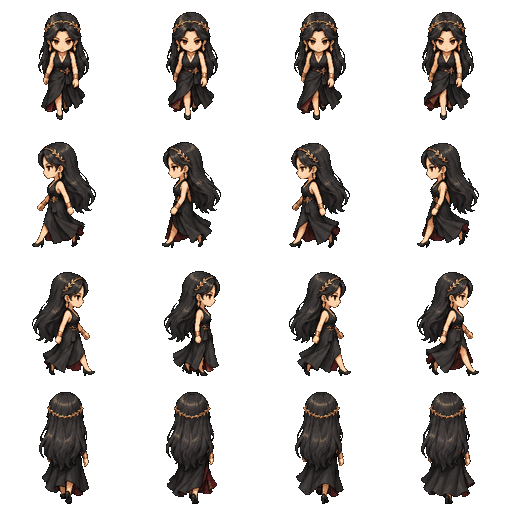
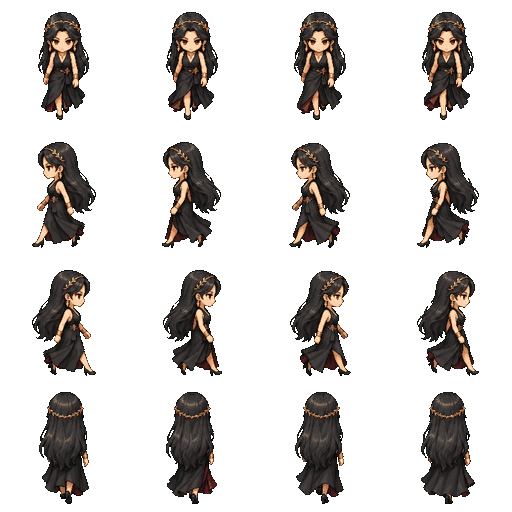
Fix noir_orchid left/right direction bug and drop hi-res base-character picker
noir_orchid direction bug: the earlier fix (SWAP_LR_ROWS) misdiagnosed the
issue as a swapped row pair. Re-verified via tight zoomed crops + exact
pixel-diff on the raw source (not visible on the full-body silhouette,
which looks deceptively similar either way): "left" and "right" both show
the identical pose, not mirrored content. All three noir_orchid variants
(v1/v2/v3) have this bug. Fixed by mirror-synthesis instead of row-swap —
verified mathematically (right row is now an exact pixel mirror of left,
0.0 diff) in both the outfit system (build_outfits.py) and the character
system (new MIRROR_RIGHT_FROM_LEFT_IDS in build_character_manifest.py,
applied as a post-copy pixel rearrangement, no new art drawn).

Character-creation picker: removed the hi-res "ตัวละคร" selection UI
entirely, both at character creation and the in-game mid-session switcher
added in the previous commit — the only base body is the original legacy
avatar again. All 38 imported high-res characters remain fully accessible,
just exclusively as an outfit (👕 menu) rather than a selectable base
sprite. Removed the now-dead mid-session spriteId sync plumbing (net.js,
net_firebase.js sender, server.py) that only existed to support the
removed switcher.

diff --git a/game/js/outfit_menu.js b/game/js/outfit_menu.js
@@ -2,12 +2,13 @@
 // เปลี่ยนแล้ว sync ไปให้คนอื่นเห็นทันทีผ่าน world.net (เหมือน setPet) และจำไว้ใน homes/<uid>
 // ใช้ DOM id เดิมจากระบบเครื่องแต่งกายแบบชิ้น ๆ รุ่นก่อน (#cosmetics-btn/#cosmetics-overlay ฯลฯ)
 // เพราะ CSS ตำแหน่ง/ขนาดปุ่มถูกต้องอยู่แล้ว เปลี่ยนแค่เนื้อหาเมนูข้างใน
+//
+// ตัวเลือก "ตัวละครฐาน" (สไปรท์ความละเอียดสูง) ไม่ได้อยู่ในเมนูนี้ — เลือกได้แค่ตอนสร้างตัวละคร
+// (หน้าแรก) เท่านั้น ตัวละครความละเอียดสูงตัวอื่นทั้งหมดเข้าถึงผ่าน "ชุด" ด้านล่างนี้เพียงทางเดียว
 
 import { OUTFITS, OUTFIT_SRC_W, OUTFIT_SRC_H, OUTFIT_FRAME_W, OUTFIT_FRAME_H } from "./outfit_data.js";
 import { outfitImageEl } from "./outfit.js";
 import { saveHome } from "./decor.js";
-import { SPRITE_MANIFEST, getSpriteDef } from "./sprites_manifest.js";
-import { preloadSprite, drawSpritePreview } from "./sprites.js";
 
 export function initOutfitMenu(world, ui) {
   document.getElementById("cosmetics-btn").addEventListener("click", () => toggleOutfitMenu(world, true));
@@ -32,27 +33,6 @@ function equip(world, outfitId) {
   render(world);
 }
 
-// เปลี่ยน "ตัวละครฐาน" (สไปรท์ความละเอียดสูง) กลางเซสชัน — คนละระบบกับ outfit (outfit ใส่ทับ
-// avatar ทีหลังได้เสมอ ส่วนอันนี้คือ avatar/สไปรท์ตัวเองเลย) แต่ใช้เมนูเดียวกันเพื่อไม่ต้องเพิ่ม
-// ปุ่ม/overlay ใหม่ — sync ออกไปให้ remote client อื่นเห็นทันทีผ่าน net.updateSpriteId (เหมือน
-// updateOutfit/updatePet) ตั้ง/ล้าง collisionW/H จาก manifest เสมอ ไม่งั้น hitbox จะค้างค่าตัวเก่า
-function equipSprite(world, spriteId) {
-  world.player.spriteId = spriteId;
-  if (spriteId) {
-    preloadSprite(spriteId);
-    const def = getSpriteDef(spriteId);
-    if (def) { world.player.collisionW = def.collisionWidth; world.player.collisionH = def.collisionHeight; }
-  } else {
-    delete world.player.collisionW;
-    delete world.player.collisionH;
-  }
-  const saved = JSON.parse(localStorage.getItem("dataxtown.avatar") || "null") || {};
-  saved.spriteId = spriteId;
-  localStorage.setItem("dataxtown.avatar", JSON.stringify(saved));
-  if (world.net && world.net.updateSpriteId) world.net.updateSpriteId(spriteId);
-  render(world);
-}
-
 function outfitThumb(id) {
   const c = document.createElement("canvas");
   c.width = OUTFIT_FRAME_W; c.height = OUTFIT_FRAME_H;
@@ -60,7 +40,7 @@ function outfitThumb(id) {
   cx.imageSmoothingEnabled = false;
   const img = outfitImageEl();
   const row = OUTFITS.findIndex(o => o.id === id);
-  // ครอปจาก sheet ต้นฉบับความละเอียดสูง (เหมือน outfit.js) ไม่ใช่ FRAME_W/H เดิม — พรีวิวจะคมกว่า
+  // ครอปจาก sheet ต้นฉบับความละเอียดสูง (SRC_W/H) ไม่ใช่ FRAME_W/H ที่วาดจริง — พรีวิวจะคมกว่า
   const draw = () => cx.drawImage(img, 0, row * OUTFIT_SRC_H, OUTFIT_SRC_W, OUTFIT_SRC_H, 0, 0, OUTFIT_FRAME_W, OUTFIT_FRAME_H);
   if (img && img.complete) draw(); else if (img) img.addEventListener("load", draw, { once: true });
   return c;
@@ -98,64 +78,4 @@ function render(world) {
   }
   outfitSection.appendChild(outfitGrid);
   root.appendChild(outfitSection);
-
-  // ---------- ตัวละครฐาน (สไปรท์ความละเอียดสูง) ----------
-  const spriteSection = document.createElement("div");
-  spriteSection.className = "cosmetics-section";
-  const spriteLabel = document.createElement("div");
-  spriteLabel.className = "cosmetics-slot-label";
-  spriteLabel.textContent = "ตัวละคร";
-  spriteSection.appendChild(spriteLabel);
-
-  const spriteGrid = document.createElement("div");
-  spriteGrid.className = "cosmetics-grid";
-  const currentSprite = world.player.spriteId || null;
-  const noneSprite = document.createElement("div");
-  noneSprite.className = "cosmetics-opt" + (!currentSprite ? " selected" : "");
-  noneSprite.innerHTML = '<span class="cosmetics-emoji">🙂</span><span>ตัวละครพื้นฐาน</span>';
-  noneSprite.addEventListener("click", () => equipSprite(world, null));
-  spriteGrid.appendChild(noneSprite);
-
-  for (const def of SPRITE_MANIFEST) {
-    const opt = document.createElement("div");
-    opt.className = "cosmetics-opt" + (currentSprite === def.id ? " selected" : "");
-    opt.dataset.sprite = def.id;
-    const c = document.createElement("canvas");
-    c.className = "hires-thumb";
-    c.width = 48; c.height = 48;
-    opt.appendChild(c);
-    const name = document.createElement("span");
-    name.textContent = def.name;
-    opt.appendChild(name);
-    opt.addEventListener("click", () => {
-      loadSpriteThumb(c, def.id); // เผื่อคลิกก่อน observer ทันเวลา
-      equipSprite(world, def.id);
-    });
-    spriteGrid.appendChild(opt);
-  }
-  spriteSection.appendChild(spriteGrid);
-  root.appendChild(spriteSection);
-
-  // lazy-load พรีวิวเฉพาะการ์ดที่เลื่อนมาใกล้จะเห็น — ไม่โหลดสไปรท์ทั้ง 38+ ตัวพร้อมกันทุกครั้งที่
-  // เปิดเมนู (preloadSprite เองก็ cache ต่อ id อยู่แล้ว แต่รอบแรกที่เปิดเมนูไม่ควรยิง fetch รวดเดียว)
-  const card = document.getElementById("cosmetics-card");
-  const observer = new IntersectionObserver(entries => {
-    for (const e of entries) {
-      if (!e.isIntersecting) continue;
-      const canvas = e.target.querySelector("canvas.hires-thumb");
-      if (canvas) loadSpriteThumb(canvas, e.target.dataset.sprite);
-      observer.unobserve(e.target);
-    }
-  }, { root: card, rootMargin: "150px 0px" });
-  spriteGrid.querySelectorAll(".cosmetics-opt[data-sprite]").forEach(opt => observer.observe(opt));
-  if (currentSprite) {
-    const sel = spriteGrid.querySelector(`.cosmetics-opt[data-sprite="${currentSprite}"] canvas.hires-thumb`);
-    if (sel) loadSpriteThumb(sel, currentSprite);
-  }
-}
-
-function loadSpriteThumb(canvas, id) {
-  if (canvas.dataset.loaded) return;
-  canvas.dataset.loaded = "1";
-  preloadSprite(id).then(() => drawSpritePreview(canvas.getContext("2d"), canvas, id, "down"));
 }

diff --git a/game/css/style.css b/game/css/style.css
@@ -625,21 +625,6 @@ body.touch #controls-hint { display: none; }
   border: 2px solid #394158; border-radius: 8px;
 }
 #gender-picker button.selected { border-color: #e7b94f; background: #26324a; }
-#hires-picker {
-  display: grid; grid-template-columns: repeat(3, 1fr);
-  gap: 6px; max-height: 240px; overflow-y: auto; overflow-x: hidden;
-  padding-right: 2px; margin-bottom: 4px;
-}
-.hires-opt {
-  display: flex; flex-direction: column; align-items: center; gap: 3px;
-  min-width: 0; padding: 6px 3px; cursor: pointer;
-  background: #171b2c; border: 2px dashed #394158; border-radius: 8px;
-}
-.hires-opt canvas.hires-thumb { image-rendering: pixelated; background: #0e1120; border-radius: 4px; }
-.hires-opt span { font-size: 9px; opacity: .85; text-align: center; line-height: 1.2; word-break: break-word; }
-.hires-opt.selected { border-color: #e7b94f; border-style: solid; background: #26324a; }
-.hires-opt.none-opt { justify-content: center; }
-.hires-opt.none-opt .hires-emoji { font-size: 20px; opacity: .6; }
 #custom-cols.hidden { display: none; }
 #avatar-picker { display: flex; gap: 8px; flex-wrap: wrap; }
 #avatar-picker canvas {
@@ -755,7 +740,6 @@ body.touch #controls-hint { display: none; }
 .cosmetics-opt span { font-size: 9px; opacity: .8; text-align: center; line-height: 1.2; }
 .cosmetics-opt.selected { border-color: #e7b94f; background: #26324a; }
 .cosmetics-opt .cosmetics-emoji { font-size: 20px; opacity: .5; height: 50px; display: flex; align-items: center; }
-.cosmetics-opt canvas.hires-thumb { width: 48px; height: 48px; background: #0e1120; border-radius: 4px; }
 #cosmetics-close {
   margin-top: 8px; width: 100%; padding: 10px;
   font-size: 14px; font-weight: 700; cursor: pointer;

diff --git a/game/js/net.js b/game/js/net.js
@@ -35,9 +35,6 @@ export function connectNet(world, ui) {
     });
     addSystemLine(ui, "🟢 ออนไลน์แล้ว — คนอื่นในออฟฟิศจะเห็นคุณ");
     net.updatePet = (petId, petName) => send({ t: "pet", petId, petName });
-    // เปลี่ยนตัวละครฐาน (สไปรท์ความละเอียดสูง) กลางเซสชัน — ส่งแค่ id อ้างอิง manifest เหมือนตอน
-    // join ครั้งแรก ไม่ส่งรูปภาพ/base64 ผ่าน network เด็ดขาด
-    net.updateSpriteId = spriteId => send({ t: "sprite", spriteId: spriteId || null });
 
     // ส่งตำแหน่งเมื่อมีการเปลี่ยนแปลง (จังหวะ 10 ครั้ง/วินาที)
     let last = "";
@@ -94,15 +91,6 @@ export function connectNet(world, ui) {
       case "pet": {
         const ent = findRemote(world, data.id);
         if (ent) setPet(ent, data.petId, data.petName);
-        break;
-      }
-      case "sprite": {
-        // id ไม่รู้จัก/โหลดพัง drawHiresCharacter() fallback ไปวาด avatar เดิมเองอัตโนมัติ (ไม่ crash)
-        const ent = findRemote(world, data.id);
-        if (ent) {
-          ent.spriteId = data.spriteId || null;
-          if (ent.spriteId) preloadSprite(ent.spriteId);
-        }
         break;
       }
       case "chat": {

diff --git a/game/js/net_firebase.js b/game/js/net_firebase.js
@@ -71,10 +71,6 @@ export async function connectFirebase(world, ui) {
     net.updatePet = (petId, petName) =>
       update(meRef, { pet: petId || null, petName: petName || null }).catch(() => {});
     net.updateOutfit = outfit => update(meRef, { outfit: outfit || null }).catch(() => {});
-    // เปลี่ยนตัวละครฐาน (สไปรท์ความละเอียดสูง) กลางเซสชัน — ส่งแค่ id อ้างอิง manifest เหมือน
-    // ตอน join ครั้งแรก ไม่ส่งรูปภาพ/base64 ผ่าน Firebase เด็ดขาด ฝั่งรับ sync ผ่าน onChildChanged
-    // ที่มีอยู่แล้วด้านล่าง (เช็ค v.spriteId !== ent.spriteId)
-    net.updateSpriteId = spriteId => update(meRef, { spriteId: spriteId || null }).catch(() => {});
     addSystemLine(ui, "🟢 ออนไลน์ผ่าน Firebase — คนอื่นในออฟฟิศจะเห็นคุณ");
 
     // ---------- สถานะการเชื่อมต่อของตัวเอง ----------

diff --git a/game/index.html b/game/index.html
@@ -220,8 +220,6 @@
         <button type="button" data-gender="0">👨 ชาย</button>
         <button type="button" data-gender="1">👩 หญิง</button>
       </div>
-      <label>เลือกตัวละคร</label>
-      <div id="hires-picker"></div>
       <div id="custom-row">
         <div id="custom-cols">
           <label>สีผม</label>

diff --git a/scripts/build_character_manifest.py b/scripts/build_character_manifest.py
@@ -80,6 +80,15 @@ PET_FOLDER_NAMES = {
 # logical entity position. id -> {visualScale?, visualOffsetX?, visualOffsetY?, tagOffsetY?}
 VISUAL_OVERRIDES = {}
 
+# Ids whose raw source sheet has a genuine content bug: the "left" and "right" rows show the
+# identical pose instead of two mirrored poses (verified via a tight zoomed crop on the face/
+# hair region + exact pixel-diff — NOT visible at a glance on the full-body silhouette, which
+# looks deceptively similar either way). For these, synthesize "right" by horizontally
+# mirroring "left" post-copy instead of trusting the source "right" row at all — this
+# rearranges existing pixels only (no new art drawn) and matches the same fix applied to the
+# outfit system's MIRROR_RIGHT_FROM_LEFT in build_outfits.py.
+MIRROR_RIGHT_FROM_LEFT_IDS = {"noir_orchid", "noir_orchid_v2", "noir_orchid_v3"}
+
 NAME_OVERRIDES = {
     "crimson_aegis_knight": "อัศวินโล่เพลิง",
     "dragon_elf_sentinel": "เอลฟ์มังกรผู้พิทักษ์",
@@ -202,6 +211,24 @@ def find_sibling_json(png_path: Path) -> Path:
     return exact  # let validate() report the "missing" reason with the expected name
 
 
+def fix_mirrored_right(dest_png: Path, meta: dict):
+    """Overwrite the 'right' row in-place with a per-frame horizontal mirror of the 'left'
+    row. Used for MIRROR_RIGHT_FROM_LEFT_IDS whose source 'right' row is a duplicate of
+    'left' instead of a genuine mirror (see comment at MIRROR_RIGHT_FROM_LEFT_IDS). Mirrors
+    each frame column individually (not the whole strip) so walk-cycle frame order along the
+    row is preserved."""
+    directions = meta["directions"]
+    fw, fh = meta["frameWidth"], meta["frameHeight"]
+    frames_per_dir = meta["framesPerDirection"]
+    left_row = directions.index("left")
+    right_row = directions.index("right")
+    img = Image.open(dest_png).convert("RGBA")
+    for col in range(frames_per_dir):
+        frame = img.crop((col * fw, left_row * fh, (col + 1) * fw, (left_row + 1) * fh))
+        img.paste(frame.transpose(Image.FLIP_LEFT_RIGHT), (col * fw, right_row * fh))
+    img.save(dest_png)
+
+
 def discover():
     candidates = []
     for png_path in sorted(PIXEL_ART.rglob("*-walk-sheet.png")):
@@ -295,6 +322,8 @@ def main():
         dest_json.write_bytes(entry["json"].read_bytes())
 
         meta = entry["meta"]
+        if id_ in MIRROR_RIGHT_FROM_LEFT_IDS:
+            fix_mirrored_right(dest_png, meta)
         fw, fh = meta["frameWidth"], meta["frameHeight"]
         overrides = VISUAL_OVERRIDES.get(id_, {})
         manifest_entries.append({

diff --git a/game/assets/build_outfits.py b/game/assets/build_outfits.py
@@ -97,12 +97,14 @@ SRC_FRAME = 128
 # ต้นฉบับที่พัง รับประกันว่า mirror ถูกต้องเสมอไม่ว่าต้นฉบับจะเพี้ยนแค่ไหน
 MIRROR_RIGHT_FROM_LEFT = {v for v, _ in VARIANTS if v not in ("male_cyber_fantasy", "female_cyber_fantasy")}
 
-# noir_orchid ไม่ใช่ปัญหาแบบเดียวกับด้านบน — ตรวจ raw source แยกแล้วพบว่าแถวที่ "ควร" เป็น left
-# กลับมีคอนเทนต์หันขวาจริง ๆ และแถวที่ "ควร" เป็น right มีคอนเทนต์หันซ้ายจริง ๆ (สลับตำแหน่งแถวกัน
-# ตรง ๆ ไม่ใช่ทั้งคู่หันทางเดียวกันแบบตัวอื่น) รอบที่แล้วเผลอเอาไปรวมกับกลุ่ม mirror-fix ด้านบน เลย
-# ยิ่งพังกว่าเดิม (mirror ของแถวที่ผิดอยู่แล้ว = ยังผิดเหมือนเดิม) — ต้องสลับว่าจะอ่านจากแถวไหนตอน
-# crop แทน ไม่ต้อง mirror เลย เหมือน SWAP_LR_PREFIXES ใน build_avatars.py (กรณี male_cro)
-SWAP_LR_ROWS = {"noir_orchid"}
+# แก้ไข: รอบที่แล้วเข้าใจผิดว่า noir_orchid เป็นปัญหา "แถวสลับตำแหน่งกัน" (SWAP_LR_ROWS) — ตรวจ
+# ใหม่ด้วยการ crop เฉพาะส่วนหัว/หน้าแล้ว zoom เทียบ (ไม่ใช่ดูทั้งตัวซึ่งเงาโดยรวมคล้ายกันจนแยกไม่
+# ออก) พบว่าจริง ๆ แล้วเป็นปัญหาแบบเดียวกับตัวอื่นทั้งหมด: แถว left/right ทั้งคู่หันหน้าไปทางเดียวกัน
+# (ไม่ mirror กัน) ไม่ใช่สลับตำแหน่งแถว — SWAP_LR_ROWS เดิมเลยไม่ได้แก้อะไรจริง ๆ (สลับ label ของ
+# แถวที่ยังผิดอยู่ ก็ยังผิดเหมือนเดิม) ตอนนี้ปล่อยว่างไว้ ให้ noir_orchid ตกไปอยู่ใน
+# MIRROR_RIGHT_FROM_LEFT ด้านบนแทน (ค่า default เหมือนตัวอื่นเกือบทั้งหมด) — เก็บ mechanism นี้ไว้
+# เผื่อมีตัวอื่นในอนาคตที่เป็นปัญหาแบบสลับแถวจริง ๆ (ดู source_row_for ด้านล่าง)
+SWAP_LR_ROWS = set()
 MIRROR_RIGHT_FROM_LEFT -= SWAP_LR_ROWS
 
 

diff --git a/game/server.py b/game/server.py
@@ -162,12 +162,6 @@ class GameHandler(SimpleHTTPRequestHandler):
                     client.info.update(pet=pet_id, petName=pet_name)
                     HUB.broadcast({"t": "pet", "id": client.id, "petId": pet_id, "petName": pet_name},
                                   exclude=client.id)
-                elif client and t == "sprite":
-                    # แค่ id อ้างอิง manifest (sprites_manifest.js) — ไม่ตรวจสอบเนื้อหาฝั่ง server เอง
-                    # ฝั่งรับ validate ต่อว่า id รู้จักไหมเอง (ไม่รู้จัก = fallback avatar เดิม)
-                    sprite_id = data.get("spriteId")
-                    client.info.update(spriteId=sprite_id)
-                    HUB.broadcast({"t": "sprite", "id": client.id, "spriteId": sprite_id}, exclude=client.id)
                 elif client and t == "chat":
                     text = str(data.get("text", ""))[:MAX_CHAT_LEN].strip()
                     if text: